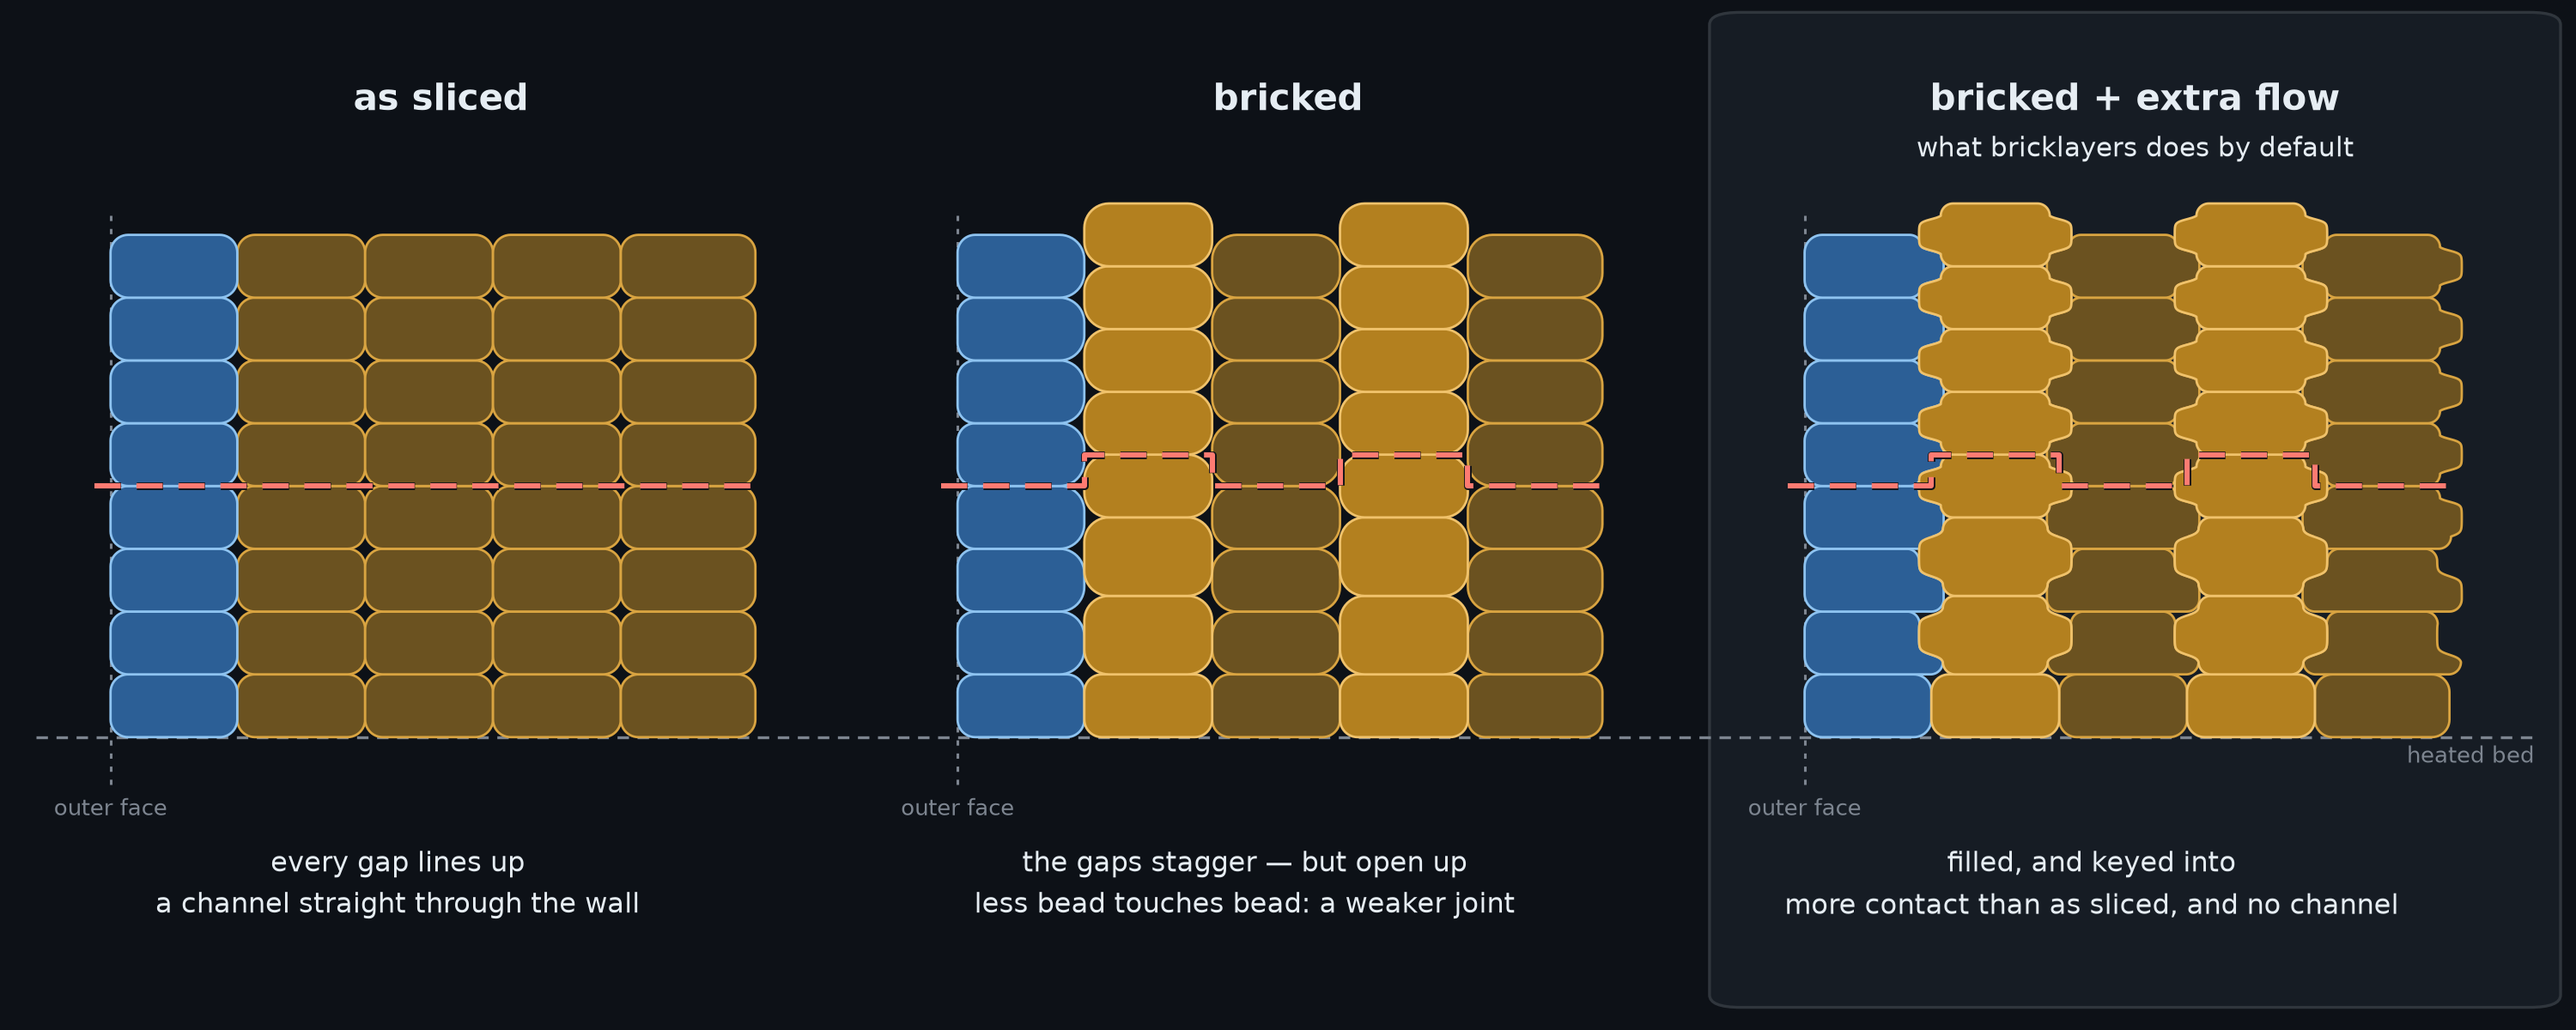
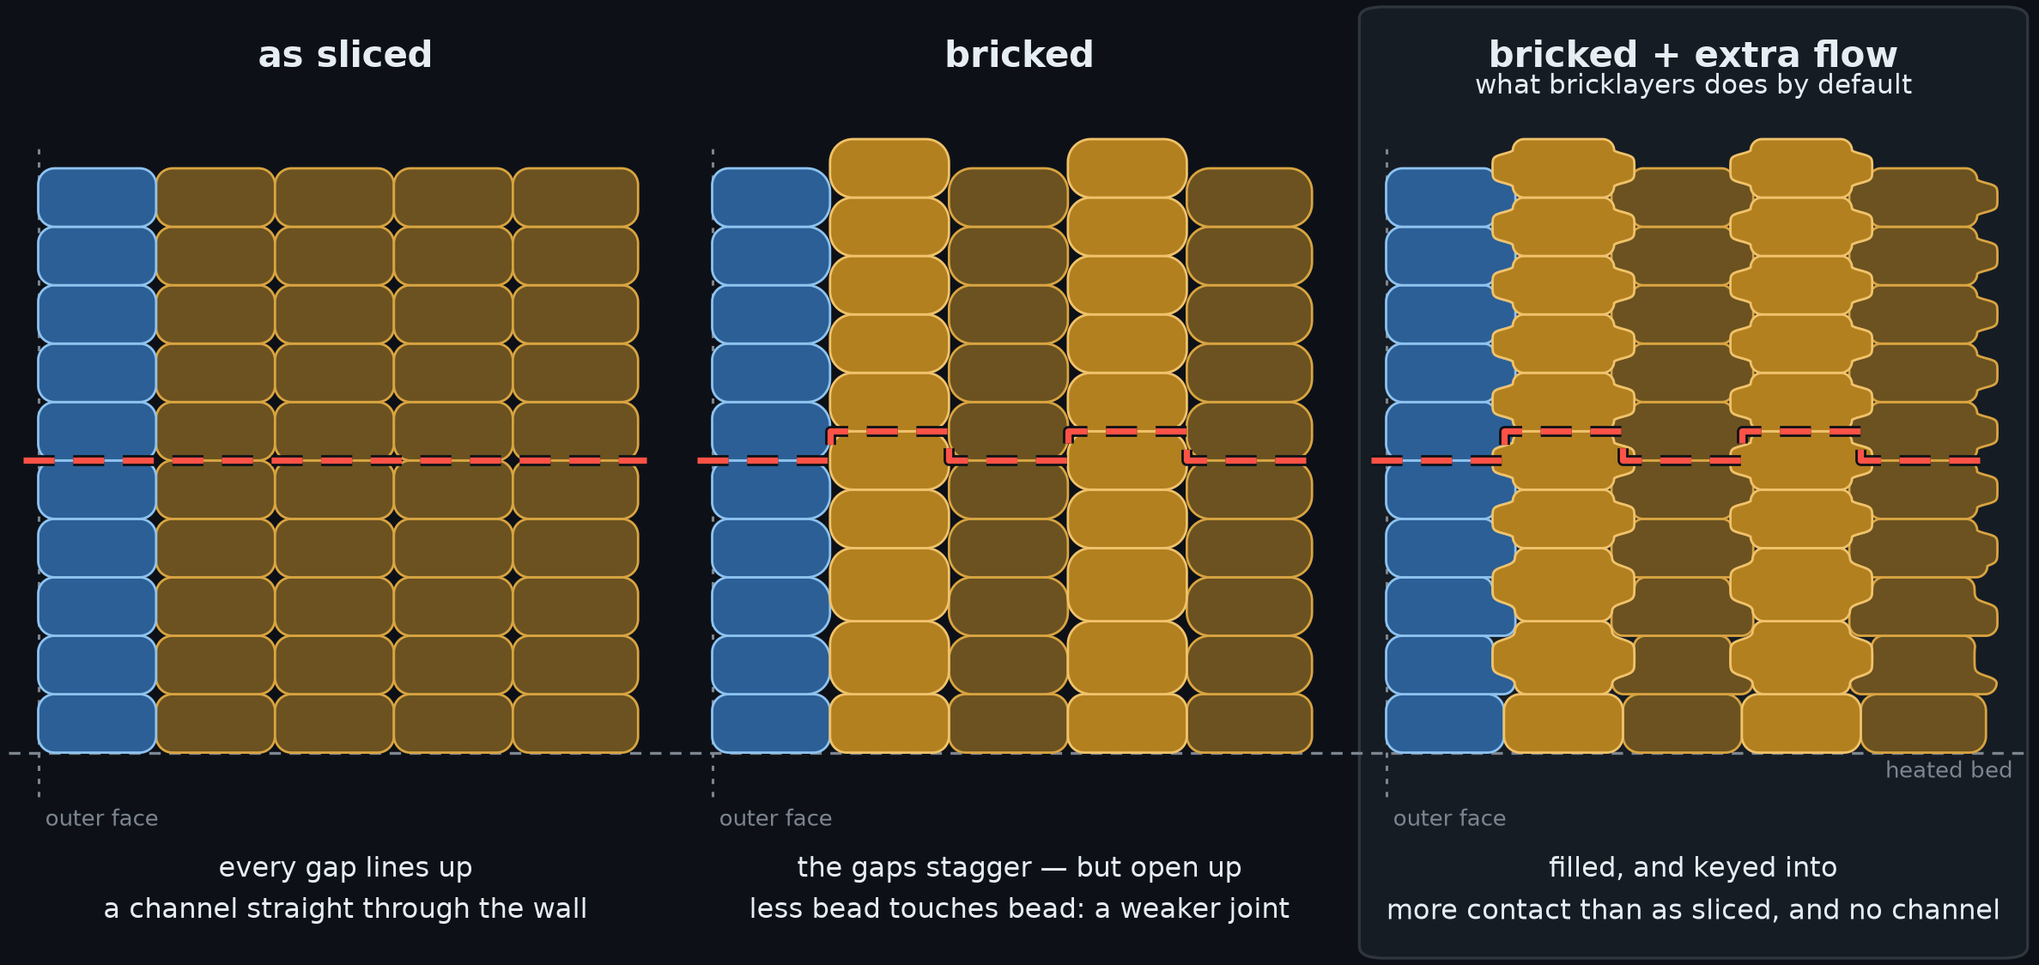
improve visualization

diff --git a/.github/skills/diagrams/scripts/render.py b/.github/skills/diagrams/scripts/render.py
@@ -62,7 +62,7 @@ LIGHT = Theme(
     lifted_edge="#8a5a12",
     skin="#8ec3f0",
     skin_edge="#2f6fb0",
-    seam="#d1242f",
+    seam="#9e0f1c",
 )
 
 DARK = Theme(
@@ -78,7 +78,7 @@ DARK = Theme(
     lifted_edge="#f0c26b",
     skin="#2c5f96",
     skin_edge="#8ec3f0",
-    seam="#ff7b72",
+    seam="#ff5247",
 )
 
 
@@ -291,6 +291,35 @@ that crest, and a corner deeper than the crest's flat run meets it at an angle
 and kinks the outline where it should be smooth.
 """
 
+AIR = 0.16
+"""Clear space left either side of a wall, as a share of a bead's width.
+
+Enough that a brick does not sit against the edge of its panel, and no more:
+every millimetre of it is repeated three times across the picture, so padding
+here is what makes the figure wide rather than tall.
+"""
+
+PANEL = 4.9
+"""Height of one panel's drawing area, in inches.
+
+The only size given to the figure. Its width follows from the wall's own
+aspect and the rest of the layout is measured off it, so tightening `AIR` or
+adding a layer changes the picture's proportions instead of leaving air inside
+a box of fixed size.
+"""
+
+GUTTER = 0.10
+"""Inches between two panels — a seam, not a margin."""
+
+SIDE = 0.10
+"""Inches outside the two end panels."""
+
+CROWN = 0.64
+"""Inches above the panels, for a panel title and the line under it."""
+
+FOOT = 0.08
+"""Inches below the panels. The captions are drawn inside the panels."""
+
 
 def gap_at(cfg: Wall, flow: float, staggered: bool) -> float:
     """How open a bead's corners are drawn, in mm.
@@ -400,11 +429,11 @@ def trace_layer_boundary(axes, cfg: Wall, raised: list[bool], theme: Theme) -> N
         xs,
         ys,
         color=theme.seam,
-        linewidth=2.2,
+        linewidth=2.6,
         linestyle=(0, (5, 3)),
         zorder=4,
         solid_capstyle="butt",
-        path_effects=[effects.withStroke(linewidth=3.2, foreground=theme.paper)],
+        path_effects=[effects.withStroke(linewidth=4.6, foreground=theme.paper)],
     )
 
 
@@ -437,19 +466,25 @@ def draw(cfg: Wall, theme: Theme, out: Path) -> Path:
         ),
     ]
 
-    figure, panes = plt.subplots(1, 3, figsize=(15.0, 6.0), facecolor=theme.paper)
     # One range for all three, taken from the widest: the fed panel's innermost
     # bead reaches furthest in, and a clipped brick would read as a cut wall.
     reach = beads.bead_width(flow, spacing, cfg.height) / 2.0
+    left = face - cfg.width * AIR
+    right = (cfg.loops - 1) * spacing + reach + cfg.width * AIR
+    floor, ceiling = -cfg.height * 3.4, top + cfg.height * 1.0
+
+    # The panel is sized to the wall rather than the wall fitted into a panel,
+    # so an equal aspect leaves nothing over to pad the picture out with.
+    pane_width = PANEL * (right - left) / (ceiling - floor)
+    size = (2.0 * SIDE + 3.0 * pane_width + 2.0 * GUTTER, CROWN + PANEL + FOOT)
+    figure, panes = plt.subplots(1, 3, figsize=size, facecolor=theme.paper)
+
     for at, (axes, (shown, bricked, title, caption)) in enumerate(zip(panes, steps)):
         axes.set_facecolor(theme.paper)
         panel(axes, shown, bricked, theme)
-        axes.set_title(title, color=theme.ink, fontsize=15, pad=26, fontweight="bold")
-        axes.set_xlim(
-            face - cfg.width * 0.6,
-            (cfg.loops - 1) * spacing + reach + cfg.width * 0.6,
-        )
-        axes.set_ylim(-cfg.height * 3.4, top + cfg.height * 1.0)
+        axes.set_title(title, color=theme.ink, fontsize=15, pad=18, fontweight="bold")
+        axes.set_xlim(left, right)
+        axes.set_ylim(floor, ceiling)
         axes.set_aspect("equal")
         axes.axis("off")
 
@@ -475,17 +510,19 @@ def draw(cfg: Wall, theme: Theme, out: Path) -> Path:
             linestyle=(0, (2, 3)),
             zorder=0,
         )
+        # Anchored on its left, not centred: the face is the panel's left edge,
+        # so a centred label hangs half of itself outside the figure.
         axes.text(
-            face,
+            face + cfg.width * AIR / 3.0,
             -cfg.height * 1.15,
             "outer face",
             color=theme.faint,
             fontsize=9.5,
-            ha="center",
+            ha="left",
             va="center",
         )
         axes.text(
-            ((cfg.loops - 1) * spacing + face) / 2.0,
+            (left + right) / 2.0,
             -cfg.height * 2.35,
             caption,
             ha="center",
@@ -497,16 +534,23 @@ def draw(cfg: Wall, theme: Theme, out: Path) -> Path:
 
     # Nothing is written under the panels: README.md carries the explanation,
     # where it can be read at any width and searched.
-    figure.subplots_adjust(left=0.01, right=0.99, top=0.87, bottom=0.04, wspace=0.02)
+    edge, foot = SIDE / size[0], FOOT / size[1]
+    figure.subplots_adjust(
+        left=edge,
+        right=1.0 - edge,
+        top=1.0 - CROWN / size[1],
+        bottom=foot,
+        wspace=GUTTER / pane_width,
+    )
 
     # The third panel is the tool's actual output; the first two are how it got
     # there.
     box = panes[2].get_position()
     figure.add_artist(
         FancyBboxPatch(
-            (box.x0 - 0.004, 0.022),
-            box.width + 0.008,
-            0.966,
+            (box.x0 - edge / 3.0, foot / 2.0),
+            box.width + 2.0 * edge / 3.0,
+            1.0 - foot,
             boxstyle="round,pad=0,rounding_size=0.012",
             transform=figure.transFigure,
             facecolor=theme.highlight,
@@ -524,7 +568,7 @@ def draw(cfg: Wall, theme: Theme, out: Path) -> Path:
     plate = figure.transFigure.inverted().transform(panes[0].transData.transform((0.0, 0.0)))[1]
     figure.add_artist(
         Line2D(
-            [0.014, 0.986],
+            [edge / 2.0, 1.0 - edge / 2.0],
             [plate, plate],
             transform=figure.transFigure,
             color=theme.faint,
@@ -534,7 +578,7 @@ def draw(cfg: Wall, theme: Theme, out: Path) -> Path:
         )
     )
     figure.text(
-        0.984,
+        1.0 - 1.5 * edge,
         plate - 0.008,
         "heated bed",
         ha="right",
@@ -553,7 +597,7 @@ def main() -> None:
     parse = argparse.ArgumentParser(description=__doc__)
     parse.add_argument("--output-dir", type=Path, default=Path("."))
     parse.add_argument("--stem", default="interlock")
-    parse.add_argument("--layers", type=int, default=8)
+    parse.add_argument("--layers", type=int, default=10)
     parse.add_argument("--loops", type=int, default=5)
     parse.add_argument("--height", type=float, default=beads.REFERENCE_HEIGHT)
     parse.add_argument("--width", type=float, default=beads.REFERENCE_WIDTH)
